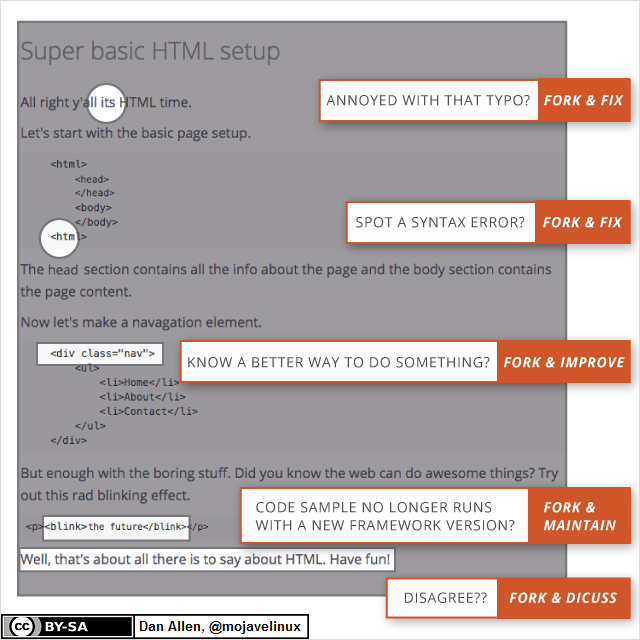
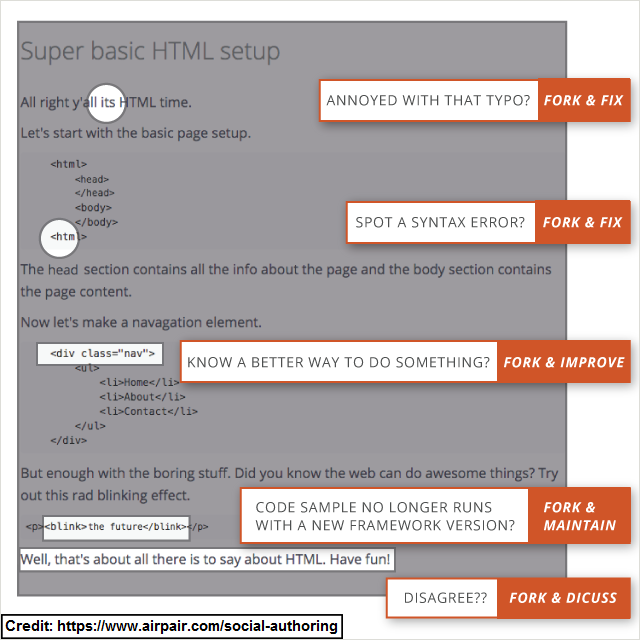
Update the 'master' branch to publish on GitHub pages.

Changed region(s): [[0.0, 0.9375, 0.5312, 1.0]]

diff --git a/blog/2016/2016-03-02_pr_improve_documentation.html b/blog/2016/2016-03-02_pr_improve_documentation.html
@@ -72,7 +72,7 @@
  <p>Because I believe in this approach, even this blog has a "see source on GitHub" link at the bottom of each article.</p> 
 </div> 
 <div class="paragraph"> 
- <p>The Pull Request model (it is the same for Gerrit changes) is really powerful tool to improve documentation. Each user can propose changes to the document, in order to improve it for all other readers. This is the exact same mechanism that makes Wikipedia the best encyclopedia of the world. Dan Allen has proposed a great slide to illustrate this idea:</p> 
+ <p>The Pull Request model (it is the same for Gerrit changes) is really powerful tool to improve documentation. Each user can propose changes to the document, in order to improve it for all other readers. This is the exact same mechanism that makes Wikipedia the best encyclopedia of the world. Dan Allen uses this picture to illustrate this idea:</p> 
 </div> 
 <div class="paragraph"> 
  <p><span class="image"><img src="2016-03-02_fork_and_fix.png" alt="2016-03-02_fork_and_fix"></span></p> 
